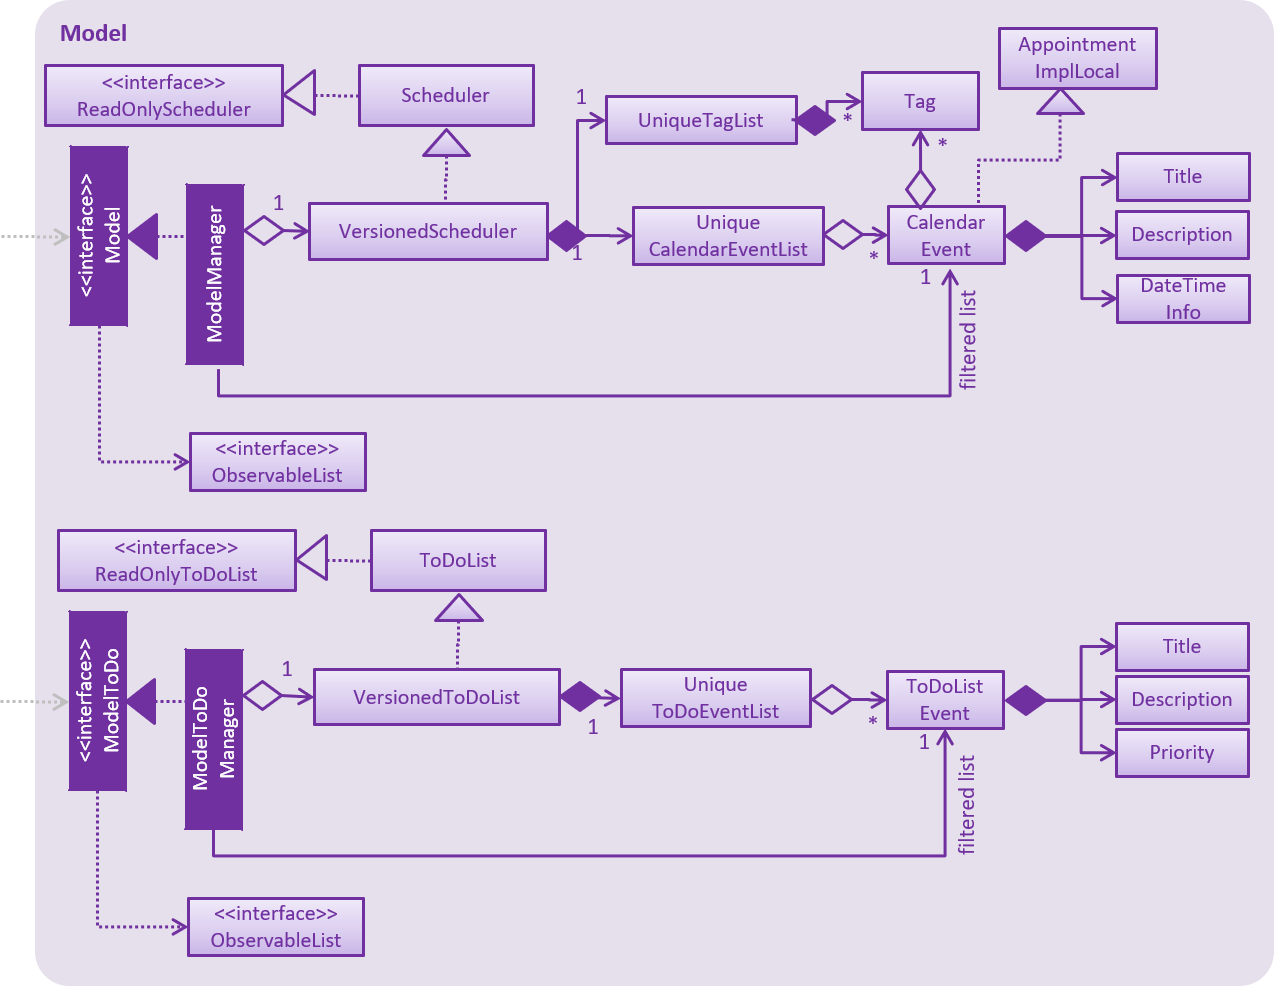
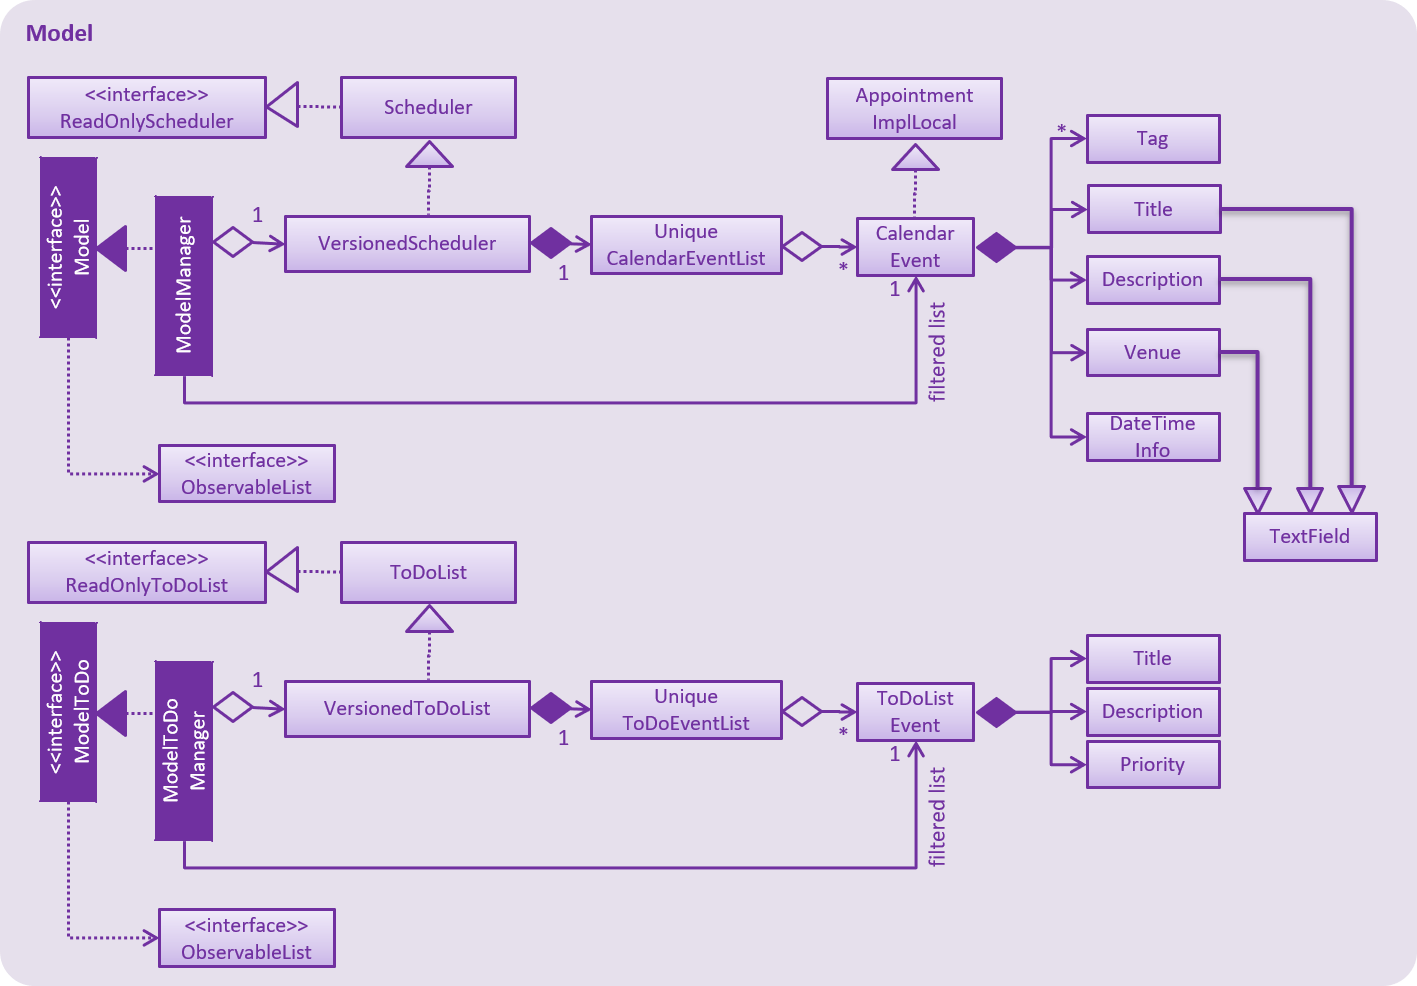
Rebuild pages at 6d3d94da748eea3a0a185ee8526f613318be9ec0

diff --git a/DeveloperGuide.html b/DeveloperGuide.html
@@ -34,10 +34,11 @@
 <li><a href="#calendar-model">3.3. Calendar Model</a></li>
 <li><a href="#calendar-display">3.4. Calendar Display</a></li>
 <li><a href="#calendar-navigation-feature">3.5. Calendar Navigation Feature</a></li>
-<li><a href="#undo-redo-feature">3.6. Undo/Redo feature</a></li>
-<li><a href="#proposed-data-encryption">3.7. [Proposed] Data Encryption</a></li>
-<li><a href="#logging">3.8. Logging</a></li>
-<li><a href="#Implementation-Configuration">3.9. Configuration</a></li>
+<li><a href="#schedulerparser">3.6. SchedulerParser</a></li>
+<li><a href="#undo-redo-feature">3.7. Undo/Redo feature</a></li>
+<li><a href="#proposed-data-encryption">3.8. [Proposed] Data Encryption</a></li>
+<li><a href="#logging">3.9. Logging</a></li>
+<li><a href="#Implementation-Configuration">3.10. Configuration</a></li>
 </ul>
 </li>
 <li><a href="#documentation">4. Documentation</a>
@@ -1087,6 +1088,10 @@ backing the search result panel.</p>
 calendar, such as the title, description, start and end date/time, venue and tags.</p>
 </div>
 <div class="paragraph">
+<p><code>Title</code>, <code>Description</code> and <code>Venue</code> now inherit from a <code>TextField</code> parent class, to represent fields in the model that
+store string data.</p>
+</div>
+<div class="paragraph">
 <p><code>DateTime</code> stores and validates the input start and end date/time of each event in the calendar.</p>
 </div>
 <div class="paragraph">
@@ -1246,9 +1251,33 @@ would also be sufficient in most cases.</p>
 </div>
 </div>
 <div class="sect2">
-<h3 id="undo-redo-feature"><a class="link" href="#undo-redo-feature">3.6. Undo/Redo feature</a></h3>
+<h3 id="schedulerparser"><a class="link" href="#schedulerparser">3.6. SchedulerParser</a></h3>
 <div class="sect3">
 <h4 id="current-implementation-5"><a class="link" href="#current-implementation-5">3.6.1. Current Implementation</a></h4>
+<div class="paragraph">
+<p>Commands are now required for both models <code>CalendarEvent</code> and <code>ToDoListEvent</code>. Hence it is beneficial for the parser to
+support both one and two-worded commands which would specify the action (e.g. <code>add</code>, <code>delete</code>) as well as the model
+it is updating (<code>event</code> or <code>todo</code>). The parser still retains the responsibility of resolving which <code>Command</code> should
+be returned, for both models.</p>
+</div>
+</div>
+<div class="sect3">
+<h4 id="design-considerations-3"><a class="link" href="#design-considerations-3">3.6.2. Design Considerations</a></h4>
+<div class="paragraph">
+<p>The parser should be flexible enough to at least support commands which are identified by one word and those
+identified by two words. Some commands such as <code>help</code> and <code>exit</code> are not specific to a model, while others act on one
+ of the two models and are hence appropriately identified by another word.</p>
+</div>
+<div class="paragraph">
+<p>One other alternative is to keep the commands to one word and split these words by a delimiter such as a dash (<code>-</code>) e
+.g. <code>add-event</code>. However this is assumed to be less natural to the end user.</p>
+</div>
+</div>
+</div>
+<div class="sect2">
+<h3 id="undo-redo-feature"><a class="link" href="#undo-redo-feature">3.7. Undo/Redo feature</a></h3>
+<div class="sect3">
+<h4 id="current-implementation-6"><a class="link" href="#current-implementation-6">3.7.1. Current Implementation</a></h4>
 <div class="paragraph">
 <p>The undo/redo mechanism is facilitated by <code>VersionedScheduler</code>.
 It extends <code>Scheduler</code> with an undo/redo history, stored internally as an <code>SchedulerStateList</code> and <code>currentStatePointer</code>.
@@ -1381,7 +1410,7 @@ If the <code>currentStatePointer</code> is at index <code>schedulerStateList.siz
 </div>
 </div>
 <div class="sect3">
-<h4 id="design-considerations-3"><a class="link" href="#design-considerations-3">3.6.2. Design Considerations</a></h4>
+<h4 id="design-considerations-4"><a class="link" href="#design-considerations-4">3.7.2. Design Considerations</a></h4>
 <div class="sect4">
 <h5 id="aspect-how-undo-redo-executes"><a class="link" href="#aspect-how-undo-redo-executes">Aspect: How undo &amp; redo executes</a></h5>
 <div class="ulist">
@@ -1451,20 +1480,20 @@ If the <code>currentStatePointer</code> is at index <code>schedulerStateList.siz
 </div>
 </div>
 <div class="sect2">
-<h3 id="proposed-data-encryption"><a class="link" href="#proposed-data-encryption">3.7. [Proposed] Data Encryption</a></h3>
+<h3 id="proposed-data-encryption"><a class="link" href="#proposed-data-encryption">3.8. [Proposed] Data Encryption</a></h3>
 <div class="paragraph">
 <p><em>{Explain here how the data encryption feature will be implemented}</em></p>
 </div>
 </div>
 <div class="sect2">
-<h3 id="logging"><a class="link" href="#logging">3.8. Logging</a></h3>
+<h3 id="logging"><a class="link" href="#logging">3.9. Logging</a></h3>
 <div class="paragraph">
 <p>We are using <code>java.util.logging</code> package for logging. The <code>LogsCenter</code> class is used to manage the logging levels and logging destinations.</p>
 </div>
 <div class="ulist">
 <ul>
 <li>
-<p>The logging level can be controlled using the <code>logLevel</code> setting in the configuration file (See <a href="#Implementation-Configuration">Section 3.9, &#8220;Configuration&#8221;</a>)</p>
+<p>The logging level can be controlled using the <code>logLevel</code> setting in the configuration file (See <a href="#Implementation-Configuration">Section 3.10, &#8220;Configuration&#8221;</a>)</p>
 </li>
 <li>
 <p>The <code>Logger</code> for a class can be obtained using <code>LogsCenter.getLogger(Class)</code> which will log messages according to the specified logging level</p>
@@ -1495,7 +1524,7 @@ If the <code>currentStatePointer</code> is at index <code>schedulerStateList.siz
 </div>
 </div>
 <div class="sect2">
-<h3 id="Implementation-Configuration"><a class="link" href="#Implementation-Configuration">3.9. Configuration</a></h3>
+<h3 id="Implementation-Configuration"><a class="link" href="#Implementation-Configuration">3.10. Configuration</a></h3>
 <div class="paragraph">
 <p>Certain properties of the application can be controlled (e.g App title, logging level) through the configuration file (default: <code>config.json</code>).</p>
 </div>
@@ -2983,4 +3012,4 @@ Expected: Similar to previous.</p>
 </div>
 </div>
 </div>
-</div></div><div id="footer"><div class="container"><div id="footer-text">Last updated 2018-11-12 10:06:51 UTC</div></div></div></body></html>
+</div></div><div id="footer"><div class="container"><div id="footer-text">Last updated 2018-11-12 12:44:09 UTC</div></div></div></body></html>

diff --git a/team/bryanwongweiheng.html b/team/bryanwongweiheng.html
@@ -22,17 +22,14 @@ Software Engineering. The user interacts with it using a CLI, and it has a GUI c
 <div class="ulist">
 <ul>
 <li>
-<p><strong>Major enhancement</strong>: added <strong>the ability to undo/redo previous commands</strong></p>
+<p><strong>Major enhancement</strong>: added ability to have both two and one word commands</p>
 <div class="ulist">
 <ul>
 <li>
-<p>What it does: allows the user to undo all previous commands one at a time. Preceding undo commands can be reversed by using the redo command.</p>
+<p>What it does: allows the app to have commands with one word and commands with two words</p>
 </li>
 <li>
-<p>Justification: This feature improves the product significantly because a user can make mistakes in commands and the app should provide a convenient way to rectify them.</p>
-</li>
-<li>
-<p>Highlights: This enhancement affects existing commands and commands to be added in future. It required an in-depth analysis of design alternatives. The implementation too was challenging as it required changes to existing commands.</p>
+<p>Justification: this feature allows the app to have more specific commands</p>
 </li>
 </ul>
 </div>
@@ -52,7 +49,9 @@ Software Engineering. The user interacts with it using a CLI, and it has a GUI c
 <p>Review issues created from PE dry run</p>
 </li>
 <li>
-<p>Reviewed PRs (with non-trivial review comments)</p>
+<p>Reviewed PRs (with non-trivial review comments) e.g.
+<a href="https://github.com/CS2103-AY1819S1-T10-1/main/pull/16">#16</a>
+<a href="https://github.com/CS2103-AY1819S1-T10-1/main/pull/37">#37</a></p>
 </li>
 <li>
 <p>Labeled issues in the tracker</p>
@@ -65,16 +64,14 @@ Software Engineering. The user interacts with it using a CLI, and it has a GUI c
 <div class="ulist">
 <ul>
 <li>
-<p>Changed GUI layout and color scheme</p>
+<p>Changed GUI layout and color scheme <a href="https://github.com/CS2103-AY1819S1-T10-1/main/pull/38">#38</a>
+<a href="https://github.com/CS2103-AY1819S1-T10-1/main/pull/40">#40</a> <a href="https://github.com/CS2103-AY1819S1-T10-1/main/pull/41">#41</a></p>
 </li>
 <li>
 <p>Update Test Data <a href="https://github.com/CS2103-AY1819S1-T10-1/main/pull/112">#112</a></p>
 </li>
 <li>
-<p>Changed the regex to support two worded commands</p>
-</li>
-<li>
-<p>Change model from person to calendar event</p>
+<p>Change model from person to calendar event <a href="https://github.com/CS2103-AY1819S1-T10-1/main/pull/20">#20</a></p>
 </li>
 </ul>
 </div>
@@ -85,6 +82,12 @@ Software Engineering. The user interacts with it using a CLI, and it has a GUI c
 <ul>
 <li>
 <p>Managed user guide through the project</p>
+</li>
+<li>
+<p>Updated README</p>
+</li>
+<li>
+<p>Updated AboutUs</p>
 </li>
 </ul>
 </div>
@@ -333,4 +336,4 @@ Selects the 1st calendar event in the results of the <code>find event</code> com
 </tbody>
 </table>
 </div>
-</div></div><div id="footer"><div class="container"><div id="footer-text">Last updated 2018-11-12 10:06:51 UTC</div></div></div></body></html>
+</div></div><div id="footer"><div class="container"><div id="footer-text">Last updated 2018-11-12 12:44:10 UTC</div></div></div></body></html>

diff --git a/HelpWindow.html b/HelpWindow.html
@@ -575,7 +575,7 @@ The <code>redo</code> command fails as there are no <code>undo</code> commands e
 <h3 id="clearing-all-entries-code-clear-code"><a class="link" href="#clearing-all-entries-code-clear-code">3.12. Clearing all entries : <code>clear</code></a></h3>
 <div class="paragraph">
 <p>Clears all entries from the calendar.<br>
-Format: <code>clear</code></p>
+Format: <code>clear calendar</code></p>
 </div>
 </div>
 <div class="sect2">
@@ -741,4 +741,4 @@ e.g.<code>show todo 2</code></p>
 </ul>
 </div>
 </div>
-</div></div><div id="footer"><div class="container"><div id="footer-text">Last updated 2018-11-12 10:06:51 UTC</div></div></div></body></html>
+</div></div><div id="footer"><div class="container"><div id="footer-text">Last updated 2018-11-12 12:44:09 UTC</div></div></div></body></html>

diff --git a/UserGuide.html b/UserGuide.html
@@ -575,7 +575,7 @@ The <code>redo</code> command fails as there are no <code>undo</code> commands e
 <h3 id="clearing-all-entries-code-clear-code"><a class="link" href="#clearing-all-entries-code-clear-code">3.12. Clearing all entries : <code>clear</code></a></h3>
 <div class="paragraph">
 <p>Clears all entries from the calendar.<br>
-Format: <code>clear</code></p>
+Format: <code>clear calendar</code></p>
 </div>
 </div>
 <div class="sect2">
@@ -741,4 +741,4 @@ e.g.<code>show todo 2</code></p>
 </ul>
 </div>
 </div>
-</div></div><div id="footer"><div class="container"><div id="footer-text">Last updated 2018-11-12 10:06:51 UTC</div></div></div></body></html>
+</div></div><div id="footer"><div class="container"><div id="footer-text">Last updated 2018-11-12 12:44:09 UTC</div></div></div></body></html>

diff --git a/team/johndoe.html b/team/johndoe.html
@@ -455,4 +455,4 @@ If the <code>currentStatePointer</code> is at index <code>schedulerStateList.siz
 <p><em>{Optionally, you may include other projects in your portfolio.}</em></p>
 </div>
 </div>
-</div></div><div id="footer"><div class="container"><div id="footer-text">Last updated 2018-11-12 10:06:51 UTC</div></div></div></body></html>
+</div></div><div id="footer"><div class="container"><div id="footer-text">Last updated 2018-11-12 12:44:10 UTC</div></div></div></body></html>

diff --git a/ContactUs.html b/ContactUs.html
@@ -12,4 +12,4 @@
 <p><strong>Email us</strong> : You can also reach us at <code>damith [at] comp.nus.edu.sg</code></p>
 </li>
 </ul>
-</div></div><div id="footer"><div class="container"><div id="footer-text">Last updated 2018-11-12 10:06:51 UTC</div></div></div></body></html>
+</div></div><div id="footer"><div class="container"><div id="footer-text">Last updated 2018-11-12 12:44:09 UTC</div></div></div></body></html>

diff --git a/LearningOutcomes.html b/LearningOutcomes.html
@@ -542,4 +542,4 @@ class gives some examples of how to use <em>Equivalence Partitions</em>, <em>Bou
 </div>
 </div>
 </div>
-</div></div><div id="footer"><div class="container"><div id="footer-text">Last updated 2018-11-12 10:06:51 UTC</div></div></div></body></html>
+</div></div><div id="footer"><div class="container"><div id="footer-text">Last updated 2018-11-12 12:44:09 UTC</div></div></div></body></html>

diff --git a/team/sleepyliyixin.html b/team/sleepyliyixin.html
@@ -535,4 +535,4 @@ Prefixes t/, d/ and p/ respectively allow user to input <code>Title</code>, <cod
 </div>
 </div>
 </div>
-</div></div><div id="footer"><div class="container"><div id="footer-text">Last updated 2018-11-12 10:06:51 UTC</div></div></div></body></html>
+</div></div><div id="footer"><div class="container"><div id="footer-text">Last updated 2018-11-12 12:44:10 UTC</div></div></div></body></html>

diff --git a/team/vighneshrameshiyer.html b/team/vighneshrameshiyer.html
@@ -449,4 +449,4 @@ If the <code>currentStatePointer</code> is at index <code>schedulerStateList.siz
 </div>
 </div>
 </div>
-</div></div><div id="footer"><div class="container"><div id="footer-text">Last updated 2018-11-12 10:06:51 UTC</div></div></div></body></html>
+</div></div><div id="footer"><div class="container"><div id="footer-text">Last updated 2018-11-12 12:44:10 UTC</div></div></div></body></html>

diff --git a/UsingGradle.html b/UsingGradle.html
@@ -255,4 +255,4 @@ See <code>build.gradle</code> &#8594; <code>allprojects</code> &#8594; <code>dep
 </ul>
 </div>
 </div>
-</div></div><div id="footer"><div class="container"><div id="footer-text">Last updated 2018-11-12 10:06:51 UTC</div></div></div></body></html>
+</div></div><div id="footer"><div class="container"><div id="footer-text">Last updated 2018-11-12 12:44:09 UTC</div></div></div></body></html>

diff --git a/UsingNetlify.html b/UsingNetlify.html
@@ -123,4 +123,4 @@ The publish directory is the directory in which the built HTML documentation res
 </ol>
 </div>
 </div>
-</div></div><div id="footer"><div class="container"><div id="footer-text">Last updated 2018-11-12 10:06:51 UTC</div></div></div></body></html>
+</div></div><div id="footer"><div class="container"><div id="footer-text">Last updated 2018-11-12 12:44:09 UTC</div></div></div></body></html>

diff --git a/UsingCoveralls.html b/UsingCoveralls.html
@@ -96,4 +96,4 @@ If you have not set up Travis CI, see <a href="UsingTravis.html">UsingTravis.ado
 </ol>
 </div>
 </div>
-</div></div><div id="footer"><div class="container"><div id="footer-text">Last updated 2018-11-12 10:06:51 UTC</div></div></div></body></html>
+</div></div><div id="footer"><div class="container"><div id="footer-text">Last updated 2018-11-12 12:44:09 UTC</div></div></div></body></html>
